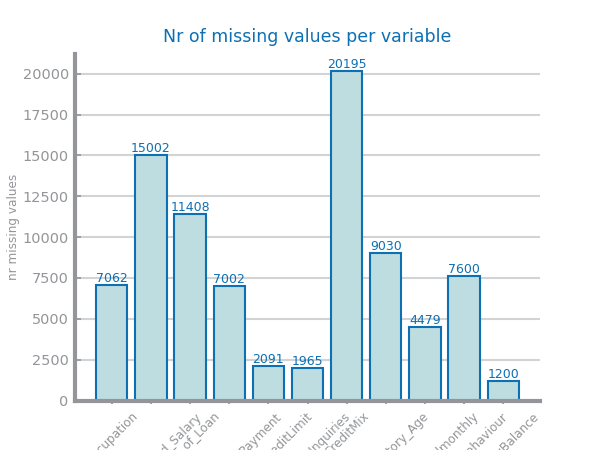
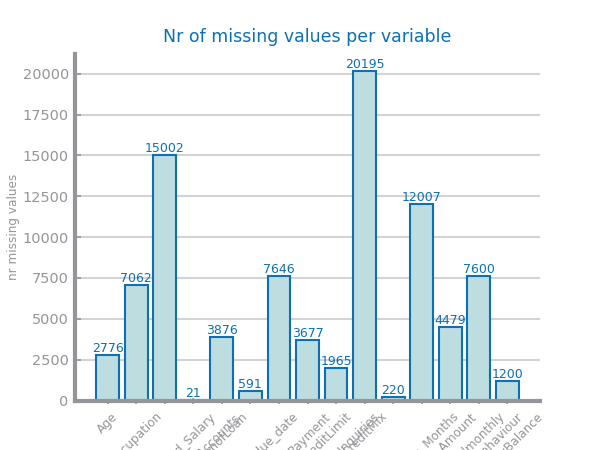
Type_of_Loan Dummy e Outliers

Changed region(s): [[0.15, 0.1244, 0.9, 1.0], [0.15, 0.9333, 0.27, 1.0], [0.63, 0.9956, 0.66, 1.0]]

diff --git a/set2.py b/set2.py
@@ -9,7 +9,7 @@ import pandas as pd
 from pandas import read_csv, DataFrame
 from sklearn.model_selection import train_test_split
 
-from auxiliar.dslabs_functions import mvi_by_filling
+from auxiliar.dslabs_functions import dummify, evaluate_approach, mvi_by_dropping, mvi_by_filling, count_outliers
 from profiling.dimensionality import Dimensionality
 from profiling.distribution import Distribution
 from profiling.sparsity import Sparsity
@@ -31,9 +31,6 @@ filename = "data/class_credit_score.csv"
 file_tag = "credit"
 data: DataFrame = read_csv(filename, na_values="")
 
-
-
-
 print('Set2 Data Types 1:\n', data.dtypes, '\n')
 
 #data = data.drop(['ID', 'SSN', 'Name', "Occupation", "Type_of_Loan", "MonthlyBalance", "Customer_ID"], axis=1)
@@ -50,8 +47,6 @@ data = data.drop(['ID', 'SSN', 'Name'], axis=1)
 # --  Data Cleaning -- #
 # -------------------- #
 
-
-
 # print("EXEMPLO DA PROF")
 # df: DataFrame = mvi_by_filling(data, strategy="frequent")
 # df.head(10)
@@ -60,6 +55,7 @@ data = data.drop(['ID', 'SSN', 'Name'], axis=1)
 # df.to_csv("DF.csv", index=False)
 
 dim = Dimensionality(filename, file_tag, data)
+
 # Missing Values
 dim.missing_values()
 
@@ -174,6 +170,17 @@ data['Customer_ID'] = data['Customer_ID'].str.replace('CUS_0x', '').apply(lambda
 #
 # # Se ainda houver algum NaN após o preenchimento para o último valor não nulo, preenche com o primeiro valor não nulo
 # data['Age'] = data.groupby('Customer_ID')['Age'].fillna(method='bfill')
+
+def fill_values_id_based():
+
+    variables = ['Occupation','CreditMix','Monthly_Inhand_Salary','Age']
+    for var_type in variables:
+        # Preencher os valores ausentes com base no último valor não nulo dentro de cada grupo de 'Customer_ID'
+        data[var_type] = data.groupby('Customer_ID')[var_type].fillna(method='ffill')
+
+        # Se ainda houver algum NaN após o preenchimento para o último valor não nulo, preenche com o primeiro valor não nulo
+        data[var_type] = data.groupby('Customer_ID')[var_type].fillna(method='bfill')
+
 
 # Função para converter "Years and Months" para meses
 def years_and_months_to_months(years_and_months):
@@ -290,6 +297,35 @@ customer_ids_with_missing_values = data[data['Credit_History_Age_in_Months'].isn
 
 print("Customer IDs with missing values in 'Credit_History_Age_in_Months':")
 print(customer_ids_with_missing_values)
+
+#Cria uma lista em cada registo com os seus loan types
+def create_loan_type_columns(df):
+    # Separar os valores dentro de cada linha usando vírgulas e a palavra "and"
+    #Preeenche os NA com string vazia
+    df['Type_of_Loan'] = df['Type_of_Loan'].fillna('').str.replace('and ', '').str.replace(' ', '').str.split(',')
+
+    existing_loan_types = list()
+
+    # Iterar sobre os tipos de empréstimos e criar uma nova coluna para cada um
+    for loan_list in df['Type_of_Loan']:
+        for loan_type in loan_list:
+           # Verificar se o novo valor já existe na lista
+            if loan_type not in existing_loan_types:
+                # Adicionar o novo valor à lista
+                existing_loan_types.append(loan_type)
+    
+    for loan_type in existing_loan_types:
+        if loan_type != '':
+            df[loan_type] = df['Type_of_Loan'].apply(lambda x: 1 if loan_type in x else 0)           
+    
+    print(existing_loan_types)
+
+    df = df.drop('Type_of_Loan', axis=1)
+    
+    return df
+
+# Aplicar a função para criar colunas para cada tipo de empréstimo
+create_loan_type_columns(data)
 
 # Salvar o dataset modificado
 data.to_csv("cleaned_data.csv", index=False)
@@ -444,7 +480,15 @@ print('Set2 Data Types 3:\n', encoded_data.dtypes, '\n')
 # --------------------- #
 # -- MV and Outliers -- #
 # --------------------- #
-mv = MV_out(filename, file_tag, data)
+
+#fill_values_id_based()
+
+#dataOutliers = MV_out(filename, file_tag, data, 8)
+
+#dataOutliers.drop_outliers()
+#dataOutliers.median_outliers()
+#dataOutliers.truncate_outliers()
+
 
 # -------------------- #
 # -- Data Balancing -- #
@@ -470,5 +514,3 @@ train_data, test_data = train_test_split(encoded_data, test_size=0.3, random_sta
 # guardar os conjuntos de treino e teste em CSV
 train_data.to_csv("credit_train.csv", index=False)
 test_data.to_csv("credit_test.csv", index=False)
-
-

diff --git a/preparation/mv_and_outliers.py b/preparation/mv_and_outliers.py
@@ -1,6 +1,59 @@
+from pandas import read_csv, DataFrame, Series
+from auxiliar.dslabs_functions import (
+    NR_STDEV,
+    get_variable_types,
+    determine_outlier_thresholds_for_var,
+)
+
 class MV_out:
 
-    def __init__(self, filename, file_tag, data):
+    def __init__(self, filename, file_tag, data, n_std):
         self.filename = filename
         self.file_tag = file_tag
         self.data     = data
+        self.n_std	  = n_std
+        self.numeric_vars: list[str] = get_variable_types(self.data)["numeric"]
+        self.summary5: DataFrame = self.data[self.numeric_vars].describe()
+        
+    def drop_outliers(self):
+        if self.numeric_vars is not None:
+            df: DataFrame = self.data.copy(deep=True)
+            for var in self.numeric_vars:
+                top_threshold, bottom_threshold = determine_outlier_thresholds_for_var(
+                    self.summary5[var], threshold=self.n_std
+                )
+                outliers: Series = df[(df[var] > top_threshold) | (df[var] < bottom_threshold)]
+                df.drop(outliers.index, axis=0, inplace=True)
+            df.to_csv(f"data/{self.file_tag}_drop_outliers.csv", index=True)
+            print(f"Data after dropping outliers: {df.shape}")
+        else:
+            print("There are no numeric variables")
+            
+    def median_outliers(self):
+        if [] != self.numeric_vars:
+            df: DataFrame = self.data.copy(deep=True)
+            for var in self.numeric_vars:
+                top, bottom = determine_outlier_thresholds_for_var(
+                    self.summary5[var], threshold=self.n_std
+                )
+                median: float = df[var].median()
+                df[var] = df[var].apply(lambda x: median if x > top or x < bottom else x)
+            df.to_csv(f"data/{self.file_tag}_replacing_outliers.csv", index=True)
+            print("Data after replacing outliers:", df.shape)
+            print(df.describe())
+        else:
+            print("There are no numeric variables")
+
+    def truncate_outliers(self):
+        if [] != self.numeric_vars:
+            df: DataFrame = self.data.copy(deep=True)
+            for var in self.numeric_vars:
+                top, bottom = determine_outlier_thresholds_for_var(self.summary5[var], threshold=self.n_std)
+                df[var] = df[var].apply(
+                    lambda x: top if x > top else bottom if x < bottom else x
+                )
+            df.to_csv(f"data/{self.file_tag}_truncate_outliers.csv", index=True)
+            print("Data after truncating outliers:", df.shape)
+            print(df.describe())
+        else:
+            print("There are no numeric variables")
